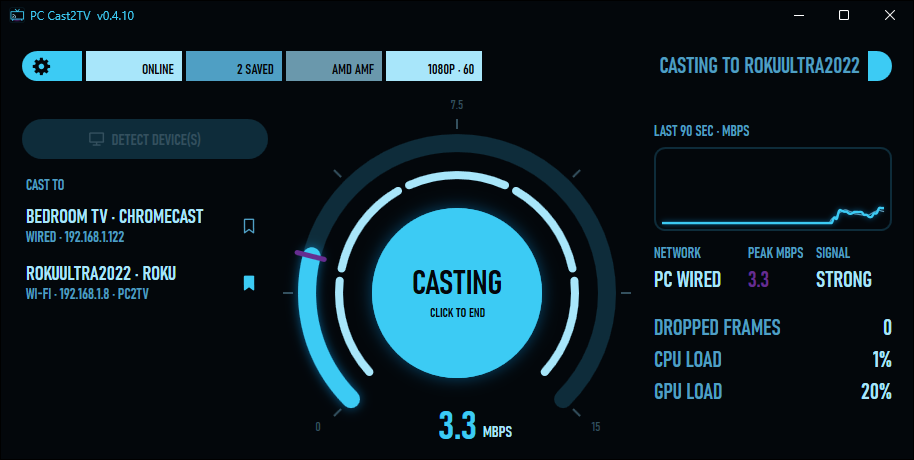
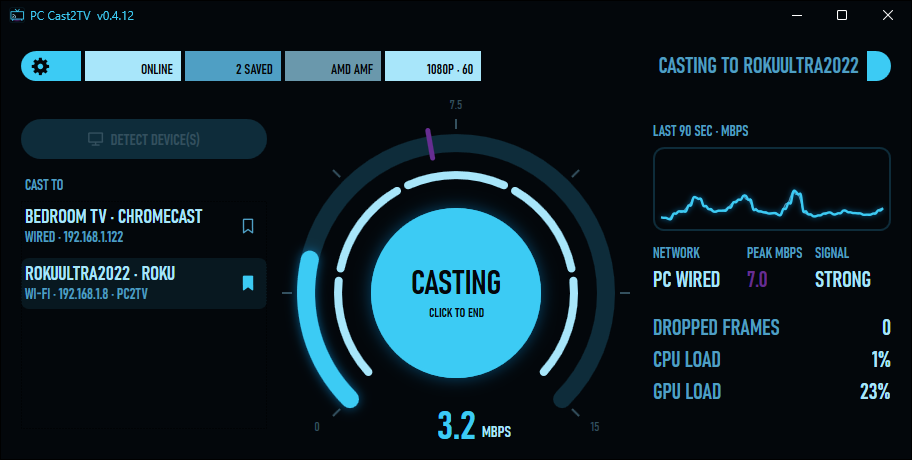
README: the simple look, the Limited popup, new screenshots

diff --git a/README.md b/README.md
@@ -37,11 +37,17 @@ I wanted my PC screen to show on my TV. The whole screen, with sound, smooth, wi
 - **Keeps itself up to date.** When a new version is out, the app offers it when you open it. One click and it updates and restarts itself. It never interrupts a cast.
 - **A health readout** while you cast: dropped frames, CPU load and GPU load. The numbers stay up after the cast so you can see how it went.
 - **A stream controller** for TVs with Chromecast built in, in Settings and off to start. If the picture stutters, turn it on: it watches how well your TV keeps up and lowers or raises the data rate to keep the picture smooth. It works right away, even during a cast.
-- **8 color themes,** plus Random and your own color, from the ⚙ cog. Settings also holds the stream controller, shows what the OK button on your Roku remote does, shows your version, links back to this page, and opens the folder with your debug log.
+- **Two looks,** picked in Settings: the dial (at the top of this page), with every number in view, or the simple look: find your TV, click it, click Cast. The simple look's **DETAILS** page shows each step of the cast (the video, this app, the network, the TV) and where a stutter would come from.
+- **8 color themes,** plus Random and your own color, from the ⚙ cog. Settings also holds the window look and the stream controller, shows what the OK button on your Roku remote does, shows your version, links back to this page, and opens the folder with your debug log.
 
 <p align="center">
-  <img src="Screenshots/settings.png" width="760" alt="The Settings window: theme colors, stream controller, the Roku remote's OK button, version, GitHub page and OPEN LOG FOLDER" /><br>
-  <i>Settings: pick a theme color, turn the stream controller on or off, see what the Roku remote's OK button does, check your version, or open your debug log.</i>
+  <img src="Screenshots/simple-look.png" width="620" alt="The simple look: FIND: TV / ROKU first, each device as a card, and one big button" /><br>
+  <i>The simple look: find, pick, cast. DETAILS shows each step of the cast.</i>
+</p>
+
+<p align="center">
+  <img src="Screenshots/settings.png" width="760" alt="The Settings window: theme colors, window look, stream controller, the Roku remote's OK button, version, GitHub page and OPEN LOG FOLDER" /><br>
+  <i>Settings: pick a theme color and a window look, turn the stream controller on or off, see what the Roku remote's OK button does, check your version, or open your debug log.</i>
 </p>
 
 ## Requirements
@@ -55,7 +61,7 @@ I wanted my PC screen to show on my TV. The whole screen, with sound, smooth, wi
 1. Download **`PC-Cast2TV.exe`** from the [Releases](../../releases) page. That's the only official download. Copies posted anywhere else aren't from me, so don't run them.
 2. Put it in its own folder (it keeps its `Settings` folder next to it) and run it. **Windows will show a blue "Windows protected your PC" warning.** That's SmartScreen reacting to an unsigned open-source app with no download reputation yet, not a threat detection. Click **More info → Run anyway**. (Don't take my word for what the app does. The entire source code is this repository.)
 3. It connects to your home network by itself. The first time you open it, Windows asks once to let your TVs and Roku reach the app. That's a firewall rule for this app only, on private networks only.
-4. Click **DETECT DEVICE(S)** to find your TVs and Roku, click the one you want, and click **Cast**.
+4. Click **DETECT DEVICE(S)** (**FIND: TV / ROKU** in the simple look) to find your TVs and Roku, click the one you want, and click **Cast**.
 
 ## Roku: one free app, and PC Cast2TV adds it for you
 
@@ -69,6 +75,8 @@ A Roku plays your PC through **PC Cast2TV for Roku**, our own free app in the Ro
 1. Click your Roku in PC Cast2TV's list.
 2. If the PC Cast2TV app isn't on your Roku yet, PC Cast2TV pops up and shows you. Click **ADD PC CAST2TV** and its page opens on your TV.
 3. Press **OK** on your Roku remote. PC Cast2TV sees it arrive, the popup closes by itself, and you're ready to click **Cast**.
+
+If your Roku's **Control by mobile apps** setting is on **Limited** (newer Rokus come that way), PC Cast2TV pops up and shows where to switch it to **Enabled**, and **CHECK AGAIN** makes sure it took.
 
 You can also add it yourself: search the Roku Channel Store for **PC Cast2TV**, or add it with the code **PCCast2TV** at [my.roku.com/account/add/PCCast2TV](https://my.roku.com/account/add/PCCast2TV).
 
@@ -103,13 +111,13 @@ A Roku plays the cast in one-second pieces and keeps a few of them in hand, so a
 A 75 or 144 Hz screen copied 60 times a second can't land evenly on a 60 Hz TV, which shows as a stutter. So while you cast, the app runs your screen at 60 Hz, and it puts your screen back the way it was when the cast ends.
 
 **It says the TV isn't answering.**
-Make sure the TV (or the Roku) is on and on the same home network as the PC. If you run a VPN, turn on its "Allow LAN" setting. If the TV moved to a new address, click **DETECT DEVICE(S)** to find it again.
+Make sure the TV (or the Roku) is on and on the same home network as the PC. If you run a VPN, turn on its "Allow LAN" setting. If the TV moved to a new address, click **DETECT DEVICE(S)** (**FIND: TV / ROKU** in the simple look) to find it again.
 
 **My Roku won't start the cast, or ADD PC CAST2TV didn't open anything.**
 PC Cast2TV talks to a Roku the same way Roku's own phone app does. On the Roku, open **Settings > System > Advanced system settings > Control by mobile apps** and pick **Enabled**. Newer Rokus come set to **Limited**, which blocks PC Cast2TV; when that's the case, the app shows a popup with these same steps.
 
 **Can I hide a device I don't use?**
-Right-click it in the list and click **HIDE FROM THE LIST**. It stays saved, DETECT DEVICE(S) leaves it off too, and right-clicking DETECT DEVICE(S) brings it back.
+Right-click it in the list (or its card in the simple look) and click **HIDE FROM THE LIST**. It stays saved, finding devices leaves it off too, and right-clicking **DETECT DEVICE(S)** (or **FIND: TV / ROKU**) brings it back.
 
 ## Your data stays yours
 
